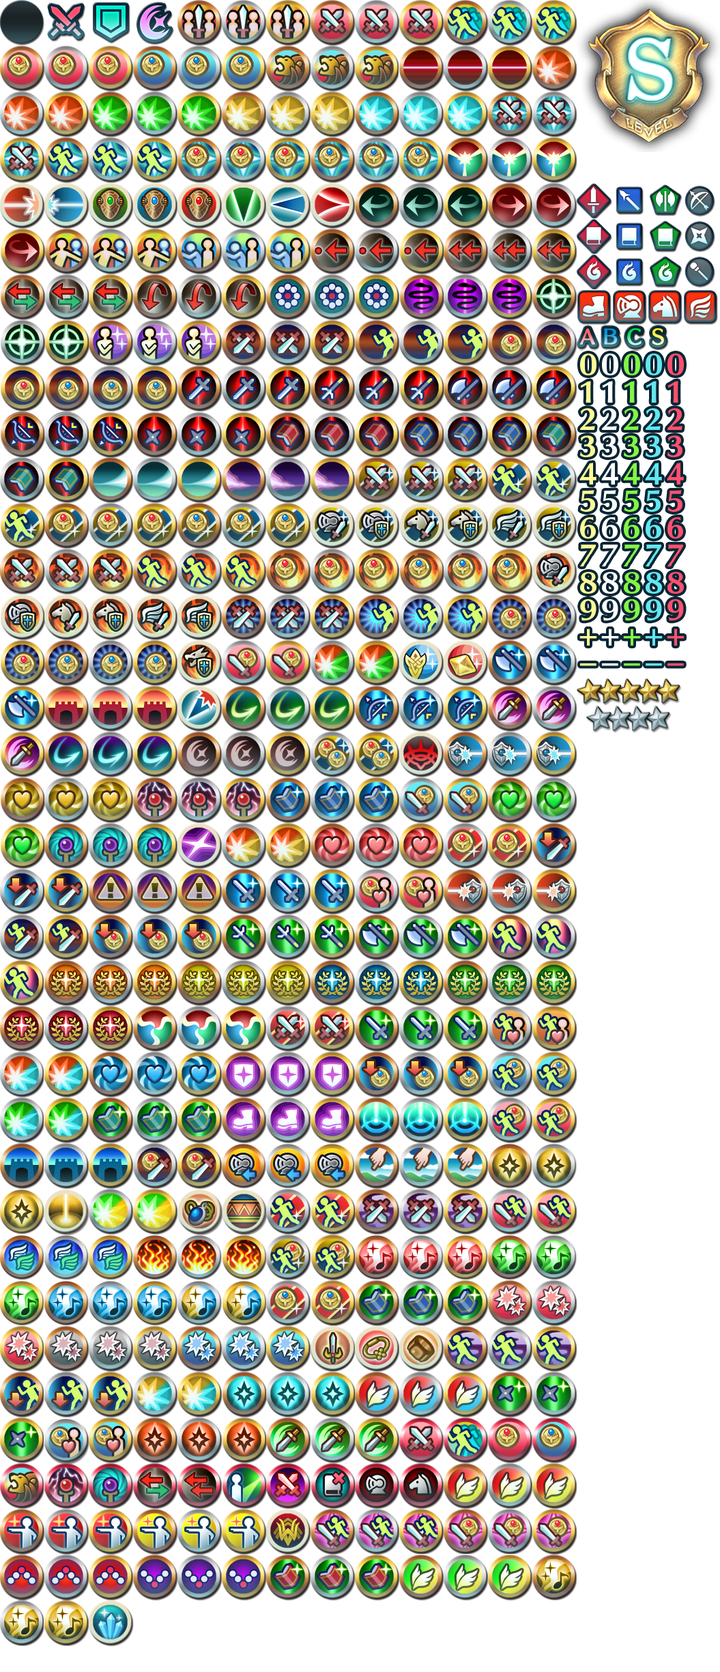
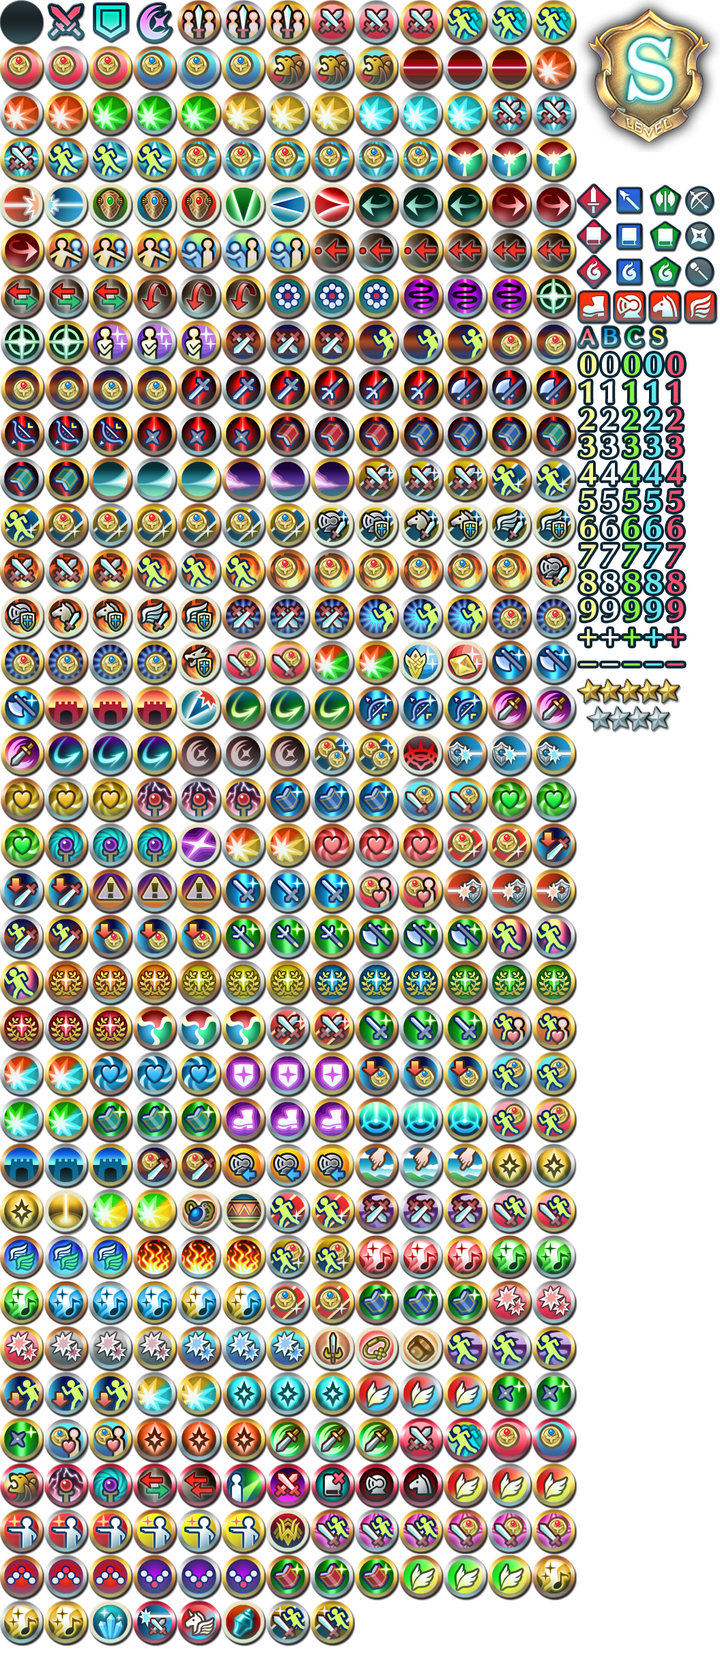
[data] Update new skills

Changed region(s): [[0.182, 0.9306, 0.5156, 0.9927]]

diff --git a/js/data-skills.js b/js/data-skills.js
@@ -1,7 +1,7 @@
 let SKILL_WEAPON = [
   { "name": "Absorb", "spCost": 150, "damage": 4, "range": 2, "weaponType": "Staff", "colorType": "Neutral", "effect": "Recovers HP=50% of damage dealt." },
   { "name": "Absorb+", "spCost": 300, "damage": 7, "range": 2, "weaponType": "Staff", "colorType": "Neutral", "effect": "Recovers HP = 50% of damage dealt. After combat, restores 7 HP to allies within 2 spaces of unit." },
-  { "name": "Alondite", "spCost": 400, "damage": 16, "range": 1, "exclusive": ["Black Knight"], "weaponType": "Sword", "colorType": "Red", "effect": "Enables counterattack regardless of distance if this unit is attacked." },
+  { "name": "Alondite", "spCost": 400, "damage": 16, "range": 1, "exclusive": ["Black Knight", "Zelgius"], "weaponType": "Sword", "colorType": "Red", "effect": "Enables counterattack regardless of distance if this unit is attacked." },
   { "name": "Amiti", "spCost": 400, "damage": 11, "range": 1, "exclusive": ["Elincia"], "weaponType": "Sword", "colorType": "Red", "stats": { "spd": -2 }, "effect": "Spd-2. Attack twice when initiating combat." },
   { "name": "Armads", "spCost": 400, "damage": 16, "range": 1, "exclusive": ["Hector"], "weaponType": "Axe", "colorType": "Green", "effect": "Unit makes a guaranteed follow-up attack when attacked at HP ≥ 80%." },
   { "name": "Armorslayer", "spCost": 200, "damage": 8, "range": 1, "weaponType": "Sword", "colorType": "Red", "effect": "Effective against armored units." },
@@ -78,6 +78,7 @@ let SKILL_WEAPON = [
   { "name": "Eckesachs", "spCost": 400, "damage": 16, "range": 1, "exclusive": ["Zephiel"], "weaponType": "Sword", "colorType": "Red", "effect": "Inflicts Def-4 on foes within 2 spaces through their next actions at the start of each turn.", },
   { "name": "Elfire", "spCost": 100, "damage": 6, "range": 2, "weaponType": "Tome", "colorType": "Red", "effect": "-" },
   { "name": "Élivágar", "spCost": 400, "damage": 14, "range": 2, "exclusive": ["Veronica"], "weaponType": "Tome", "colorType": "Green", "effect": "If unit initiates attack, bonuses on foes within 2 spaces of the target become penalties through their next actions.", },
+  { "name": "Ellight", "spCost": 100, "damage": 6, "range": 2, "weaponType": "Tome", "colorType": "Blue", "effect": "" },
   { "name": "Elthunder", "spCost": 100, "damage": 6, "range": 2, "weaponType": "Tome", "colorType": "Blue", "effect": "-" },
   { "name": "Elwind", "spCost": 100, "damage": 6, "range": 2, "weaponType": "Tome", "colorType": "Green", "effect": "-" },
   { "name": "Emerald Axe", "spCost": 200, "damage": 8, "range": 1, "weaponType": "Axe", "colorType": "Green", "effect": "Gives Atk+20% if weapon-triangle advantage, Atk-20% if disadvantage." },
@@ -164,6 +165,7 @@ let SKILL_WEAPON = [
   { "name": "Legion's Axe", "spCost": 200, "damage": 10, "range": 1, "weaponType": "Axe", "colorType": "Green", "effect": "After combat, bonuses on targeted foe become penalties through its next action." },
   { "name": "Legion's Axe+", "spCost": 300, "damage": 14, "range": 1, "weaponType": "Axe", "colorType": "Green", "effect": "After combat, bonuses on targeted foe become penalties through its next action." },
   { "name": "Leiptr", "spCost": 400, "damage": 16, "range": 1, "exclusive": ["Fjorm"], "weaponType": "Lance", "colorType": "Blue", "effect": "Unit can counterattack regardless of foe's range.", },
+  { "name": "Light", "spCost": 50, "damage": 4, "range": 2, "weaponType": "Tome", "colorType": "Blue", "effect": "" },
   { "name": "Light Breath", "spCost": 200, "damage": 9, "range": 1, "weaponType": "Breath", "effect": "Grants adjacent allies Def/Res+4 through their next actions after any combat this unit initiates." },
   { "name": "Light Breath+", "spCost": 300, "damage": 13, "range": 1, "weaponType": "Breath", "effect": "Grants adjacent allies Def/Res+4 through their next actions after any combat this unit initiates." },
   { "name": "Lightning Breath", "spCost": 200, "damage": 7, "range": 1, "weaponType": "Breath", "effect": "Enables counterattack regardless of attacker's range. Slows Special trigger (cooldown count+1)." },
@@ -174,7 +176,7 @@ let SKILL_WEAPON = [
   { "name": "Melon Crusher+", "spCost": 300, "damage": 14, "range": 1, "weaponType": "Axe", "colorType": "Green", "effect": "If unit has 100% HP at start of combat, unit gets Atk/Spd/Def/Res+2. If attacking, unit will take 2 damage after combat." },
   { "name": "Monstrous Bow", "spCost": 200, "damage": 8, "range": 2, "weaponType": "Bow", "colorType": "Neutral", "effect": "Effective against flying foes.  After combat, bonuses become penalties on all foes within 2 spaces of target through foes' next actions." },
   { "name": "Monstrous Bow+", "spCost": 300, "damage": 12, "range": 2, "weaponType": "Bow", "colorType": "Neutral", "effect": "Effective against flying foes.  After combat, bonuses become penalties on all foes within 2 spaces of target through foes' next actions." },
-  { "name": "Mulagir", "spCost": 400, "damage": 14, "range": 2, "exclusive": ["Lyn (Brave Heroes)"], "weaponType": "Bow", "colorType": "Neutral", "stats": { "spd": 3 }, "effect": "Effective against flying units.  Grants Spd+3. If foe is magic user, foe's bonuses (from skills like Fortify, Rally, etc.) are nullified during combat.", },
+  { "name": "Mulagir", "spCost": 400, "damage": 14, "range": 2, "exclusive": ["Lyn (Brave Heroes)"], "weaponType": "Bow", "colorType": "Neutral", "stats": { "spd": 3 }, "effect": "Effective against flying units.  Grants Spd+3. If foe is magic user, foe's bonuses (from skills like Fortify, Rally, etc.) are nullified during combat." },
   { "name": "Mystletainn", "spCost": 400, "damage": 16, "range": 1, "exclusive": ["Eldigan"], "weaponType": "Sword", "colorType": "Red", "effect": "Accelerates Special trigger (cooldown count-1).", },
   { "name": "Naga", "spCost": 400, "damage": 14, "range": 2, "exclusive": ["Julia"], "weaponType": "Tome", "colorType": "Green", "effect": "Effective against dragons.  Grants Def/Res+2 when this unit is attacked.", },
   { "name": "Nidhogg", "spCost": 400, "damage": 14, "range": 2, "exclusive": ["Innes"], "weaponType": "Bow", "colorType": "Neutral", "effect": "Effective against flying units.  During combat, unit's Atk/Spd/Def/Res boosted by number of adjacent allies x 2.", },
@@ -184,6 +186,7 @@ let SKILL_WEAPON = [
   { "name": "Panic", "spCost": 150, "damage": 7, "range": 2, "weaponType": "Staff", "colorType": "Neutral", "effect": "After combat, bonuses on targeted foe become penalties through its next action." },
   { "name": "Panic+", "spCost": 300, "damage": 11, "range": 2, "weaponType": "Staff", "colorType": "Neutral", "effect": "After combat, bonuses on target and foes within 2 spaces of target become penalties through their next actions." },
   { "name": "Parthia", "spCost": 400, "damage": 14, "range": 2, "exclusive": ["Jeorge"], "weaponType": "Bow", "colorType": "Neutral", "effect": "Effective against flying units.  Grants Res+4 during combat if initiating attack.", },
+  { "name": "Peshkatz", "spCost": 400, "damage": 14, "range": 2, "exclusive": ["Sothe"], "weaponType": "Dagger", "colorType": "Neutral", "effect": "After combat, if unit attacked, inflicts Atk/Spd/Def/Res-4 on target and foes within 2 spaces of target through their next actions, and grants Atk/Spd/Def/Res+4 to unit and allies within 2 spaces for 1 turn." },
   { "name": "Poison Dagger", "spCost": 200, "damage": 2, "range": 2, "weaponType": "Dagger", "colorType": "Neutral", "effect": "Effective against infantry units.  Infantry foes suffer Def/Res-4 after combat through their next actions." },
   { "name": "Poison Dagger+", "spCost": 300, "damage": 5, "range": 2, "weaponType": "Dagger", "colorType": "Neutral", "effect": "Effective against infantry units.  Infantry foes suffer Def/Res-6 after combat through their next actions." },
   { "name": "Ragnarok", "spCost": 400, "damage": 14, "range": 2, "exclusive": ["Celica"], "weaponType": "Tome", "colorType": "Red", "effect": "If unit has 100% HP at the start of combat, unit receives Atk/Spd +5. If attacking, unit will receive 5 damage after combat.", },
@@ -218,6 +221,8 @@ let SKILL_WEAPON = [
   { "name": "Sealife Tome+", "spCost": 300, "damage": 12, "range": 2, "weaponType": "Tome", "colorType": "Blue", "effect": "Grants allies within 2 spaces Atk/Spd+1 during combat." },
   { "name": "Seashell", "spCost": 200, "damage": 7, "range": 2, "weaponType": "Dagger", "colorType": "Neutral", "effect": "Foe takes Def/Res-5 until end of foe's next action. If unit has 100% HP at start of combat, Atk/Spd/Def/Res+2. If attacking, unit gets 2 damage after." },
   { "name": "Seashell+", "spCost": 300, "damage": 10, "range": 2, "weaponType": "Dagger", "colorType": "Neutral", "effect": "Foe takes Def/Res-7 until end of foe's next action. If unit has 100% HP at start of combat, Atk/Spd/Def/Res+2. If attacking, unit gets 2 damage after." },
+  { "name": "Shine", "spCost": 200, "damage": 9, "range": 2, "weaponType": "Tome", "colorType": "Blue", "effect": "" },
+  { "name": "Shine+", "spCost": 300, "damage": 13, "range": 2, "weaponType": "Tome", "colorType": "Blue", "effect": "" },
   { "name": "Siegfried", "spCost": 400, "damage": 16, "range": 1, "exclusive": ["Xander"], "weaponType": "Sword", "colorType": "Red", "effect": "Enables counterattack regardless of distance if this unit is attacked.", },
   { "name": "Sieglinde", "spCost": 400, "damage": 16, "range": 1, "exclusive": ["Eirika"], "weaponType": "Sword", "colorType": "Red", "effect": "Grants adjacent allies Atk+3 through their next actions at the start of each turn.", },
   { "name": "Siegmund", "spCost": 400, "damage": 16, "range": 1, "exclusive": ["Ephraim"], "weaponType": "Lance", "colorType": "Blue", "effect": "Grants adjacent allies Atk+3 through their next actions at the start of each turn.", },
@@ -259,6 +264,7 @@ let SKILL_WEAPON = [
   { "name": "Stout Tomahawk", "spCost": 400, "damage": 16, "range": 1, "exclusive": ["Dorcas"], "weaponType": "Axe", "colorType": "Green", "effect": "Enables counterattack regardless of distance if this unit is attacked.", },
   { "name": "Tannenboom!", "spCost": 200, "damage": 10, "range": 1, "weaponType": "Lance", "colorType": "Blue", "effect": "Grants Atk/Spd/Def/Res+2 during combat if foe initiates combat." },
   { "name": "Tannenboom!+", "spCost": 300, "damage": 14, "range": 1, "weaponType": "Lance", "colorType": "Blue", "effect": "Grants Atk/Spd/Def/Res+2 during combat if foe initiates combat." },
+  { "name": "Thani", "spCost": 400, "damage": 14, "range": 2, "exclusive": ["Micaiah"], "weaponType": "Tome", "colorType": "Blue", "effect": "Grants Res+3. Effective against armored and cavalry foes. Against armored and cavalry foes using bow, dagger, magic, or staff, damage from first attack received by unit during combat reduced by 30%." },
   { "name": "Thökk", "spCost": 400, "damage": 14, "range": 2, "exclusive": ["Loki"], "weaponType": "Staff", "colorType": "Neutral", "effect": "Damage from staff calculated like other weapons. At start of turn, foes with bow, daggers, magic, or staff in cardinal directions with HP 3 or more lower than unit's can move only 1 space through their next actions.", },
   { "name": "Thoron", "spCost": 200, "damage": 9, "range": 2, "weaponType": "Tome", "colorType": "Blue", "effect": "-" },
   { "name": "Thoron+", "spCost": 300, "damage": 13, "range": 2, "weaponType": "Tome", "colorType": "Blue", "effect": "-" },
@@ -309,6 +315,7 @@ let SKILL_ASSIST = [
   { "name": "Rehabilitate", "range": 1, "spCost": 200, "effect": "Restores 7 HP or more the further below 50% the target's HP is. Slows special trigger (cooldown count+1).", "include": [{ "weaponType": "Staff" }] },
   { "name": "Rehabilitate+", "range": 1, "spCost": 300, "effect": "Restores HP = 50% of Atk -10. (Minimum of 7 HP.) If target's HP is ≤ 50%, the lower the target's HP, the more HP is restored.", "include": [{ "weaponType": "Staff" }] },
   { "name": "Reposition", "range": 1, "spCost": 150, "effect": "Moves adjacent ally to opposite side of unit.", "exclude": [{ "weaponType": "Staff" }] },
+  { "name": "Sacrifice", "range": 1, "spCost": 400, "include": [{"name": "Micaiah"}], "effect": "Converts penalties on target into bonuses. Restores target's HP = unit's current HP -1. Unit's HP reduced by amount restored." },
   { "name": "Shove", "range": 1, "spCost": 150, "effect": "Push adjacent ally 1 space farther away.", "exclude": [{ "weaponType": "Staff" }] },
   { "name": "Sing", "range": 1, "spCost": 150, "effect": "Enables target to take another action. Cannot be used on units with Sing or Dance.", "include": [{ "name": "Azura" },{ "name": "Azura (Performing Arts)" },{ "name": "Shigure (Performing Arts)" }, { "name": "Azura (Happy New Year!)" } ] },
   { "name": "Smite", "range": 1, "spCost": 150, "effect": "Push adjacent ally 2 spaces farther away.", "exclude": [{ "weaponType": "Staff" }] },
@@ -319,7 +326,7 @@ let SKILL_SPECIAL = [
   { "name": "Aegis", "cooldown": 3, "spCost": 200, "exclude": [{"weaponType": "Bow"}, {"weaponType": "Dagger"}, {"weaponType": "Staff"}, {"weaponType": "Tome"}], "effect": "Reduces damage inflicted by attacks from foes 2 spaces away by 50%." },
   { "name": "Aether", "cooldown": 5, "spCost": 500, "exclude": [{ "weaponType": "Staff" }], "effect": "Resolve combat as if foe suffered Def/Res-50%. Unit recovers HP=half damage dealt." },
   { "name": "Astra", "cooldown": 4, "spCost": 200, "exclude": [{ "weaponType": "Staff" }], "effect": "Grants +150% to damage dealt." },
-  { "name": "Black Luna", "cooldown": 3, "spCost": 500, "include": [{ "name": "Black Knight" }], "effect": "Resolve combat as if foe suffered Def/Res-80%. (Skill cannot be inherited.)" },
+  { "name": "Black Luna", "cooldown": 3, "spCost": 500, "include": [{ "name": "Black Knight" },{ "name": "Zelgius" }], "effect": "Resolve combat as if foe suffered Def/Res-80%. (Skill cannot be inherited.)" },
   { "name": "Blazing Flame", "cooldown": 4, "spCost": 300, "exclude": [{ "weaponType": "Staff" }], "effect": "Before combat this unit initiates, foes in an area near target take damage equal to 1.5 x (unit's Atk minus foe's Def or Res)." },
   { "name": "Blazing Light", "cooldown": 4, "spCost": 300, "exclude": [{ "weaponType": "Staff" }], "effect": "Before combat this unit initiates, foes in an area near target take damage equal to 1.5 x (unit's Atk minus foe's Def or Res)." },
   { "name": "Blazing Thunder", "cooldown": 4, "spCost": 300, "exclude": [{ "weaponType": "Staff" }], "effect": "Before combat this unit initiates, foes in an area near target take damage equal to 1.5 x (unit's Atk minus foe's Def or Res)." },
@@ -624,6 +631,7 @@ let SKILL_B = [
   { "name": "Vengeful Fighter 1", "spCost": 60, "icon": "34-3", "include": [{"moveType": "Armored"}], "effect": "If unit's HP ≥ 90% and foe initiates combat, unit makes a guaranteed follow-up attack. Grants Special cooldown charge +1 per attack. (Does not stack.)" },
   { "name": "Vengeful Fighter 2", "spCost": 120, "icon": "34-4", "include": [{"moveType": "Armored"}], "effect": "If unit's HP ≥ 70% and foe initiates combat, unit makes a guaranteed follow-up attack. Grants Special cooldown charge +1 per attack. (Does not stack.)" },
   { "name": "Vengeful Fighter 3", "spCost": 240, "icon": "34-5", "include": [{"moveType": "Armored"}], "effect": "If unit's HP ≥ 50% and foe initiates combat, unit makes a guaranteed follow-up attack. Grants Special cooldown charge +1 per attack. (Does not stack.)" },
+  { "name": "Warp Powder", "spCost": 300, "icon": "35-5", "include": [{"name":"Zelgius"}], "effect": "If unit's HP ≥ 80%, unit can move adjacent to any ally within 2 spaces. (Skill cannot be inherited.)" },
   { "name": "Wary Fighter 1", "spCost": 60, "icon": "6-6", "include": [{"moveType": "Armored"}], "effect": "Prevents follow-up attacks in combat from unit and foes if unit's HP ≥ 90%." },
   { "name": "Wary Fighter 2", "spCost": 120, "icon": "6-7", "include": [{"moveType": "Armored"}], "effect": "Prevents follow-up attacks in combat from unit and foes if unit's HP ≥ 70%." },
   { "name": "Wary Fighter 3", "spCost": 240, "icon": "6-8", "include": [{"moveType": "Armored"}], "effect": "Prevents follow-up attacks in combat from unit and foes if unit's HP ≥ 50%." },
@@ -747,6 +755,8 @@ let SKILL_C = [
   { "name": "Spur Atk 1", "spCost": 50, "icon": "10-8", "effect": "Grants adjacent allies Atk+2 during combat." },
   { "name": "Spur Atk 2", "spCost": 100, "icon": "10-9", "effect": "Grants adjacent allies Atk+3 during combat." },
   { "name": "Spur Atk 3", "spCost": 200, "icon": "10-19", "effect": "Grants adjacent allies Atk+4 during combat." },
+  { "name": "Spur Atk/Spd 2", "spCost": 120, "icon": "35-6", "effect": "Grants adjacent allies Atk/Spd +2 during combat." },
+  { "name": "Spur Atk/Spd 3", "spCost": 240, "icon": "35-7", "effect": "Grants adjacent allies Atk/Spd +3 during combat." },
   { "name": "Spur Def 1", "spCost": 50, "icon": "11-1", "effect": "Grants adjacent allies Def+2 during combat." },
   { "name": "Spur Def 2", "spCost": 100, "icon": "11-2", "effect": "Grants adjacent allies Def+3 during combat." },
   { "name": "Spur Def 3", "spCost": 200, "icon": "11-3", "effect": "Grants adjacent allies Def+4 during combat." },
@@ -930,6 +940,12 @@ let SKILL_REFINED_WEAPONS = {
     {"name": "+Res", "icon": "31-12", "effect": "-", "stats": {"hp": 2, "atk": 1, "res": 3}}
   ],
   "Thoron+": [
+    {"name": "+Atk", "icon": "31-9", "effect": "-", "stats": {"hp": 2, "atk": 2}},
+    {"name": "+Spd", "icon": "31-10", "effect": "-", "stats": {"hp": 2, "atk": 1, "spd": 2}},
+    {"name": "+Def", "icon": "31-11", "effect": "-", "stats": {"hp": 2, "atk": 1, "def": 3}},
+    {"name": "+Res", "icon": "31-12", "effect": "-", "stats": {"hp": 2, "atk": 1, "res": 3}}
+  ],
+  "Shine+": [
     {"name": "+Atk", "icon": "31-9", "effect": "-", "stats": {"hp": 2, "atk": 2}},
     {"name": "+Spd", "icon": "31-10", "effect": "-", "stats": {"hp": 2, "atk": 1, "spd": 2}},
     {"name": "+Def", "icon": "31-11", "effect": "-", "stats": {"hp": 2, "atk": 1, "def": 3}},
@@ -1344,6 +1360,20 @@ let SKILL_REFINED_WEAPONS = {
     {"name": "+Spd", "icon": "31-10", "cost": 1, "effect": "After combat, deals 10 damage to target and foes within 2 spaces of target. Also inflicts Def/Res-7 through their next actions.", "stats": {"hp": 2, "atk": 3, "spd": 2}},
     {"name": "+Def", "icon": "31-11", "cost": 1, "effect": "After combat, deals 10 damage to target and foes within 2 spaces of target. Also inflicts Def/Res-7 through their next actions.", "stats": {"hp": 2, "atk": 3, "def": 3}},
     {"name": "+Res", "icon": "31-12", "cost": 1, "effect": "After combat, deals 10 damage to target and foes within 2 spaces of target. Also inflicts Def/Res-7 through their next actions.", "stats": {"hp": 2, "atk": 3, "res": 3}}
+  ],
+  "Parthia": [
+    {"name": "+Atk vs Ranged", "icon": "35-3", "cost": 1, "effect": "Effective against flying foes. If foe uses magic, damage from first attack received by unit during combat reduced by 30%. Grants Atk+6 during combat if foe uses bow, dagger, magic, or staff."},
+    {"name": "+Atk", "icon": "31-9", "cost": 1, "effect": "Effective against flying foes. If foe uses magic, damage from first attack received by unit during combat reduced by 30%.", "stats": {"hp": 2, "atk": 1}},
+    {"name": "+Spd", "icon": "31-10", "cost": 1, "effect": "Effective against flying foes. If foe uses magic, damage from first attack received by unit during combat reduced by 30%.", "stats": {"hp": 2, "spd": 2}},
+    {"name": "+Def", "icon": "31-11", "cost": 1, "effect": "Effective against flying foes. If foe uses magic, damage from first attack received by unit during combat reduced by 30%.", "stats": {"hp": 2, "def": 3}},
+    {"name": "+Res", "icon": "31-12", "cost": 1, "effect": "Effective against flying foes. If foe uses magic, damage from first attack received by unit during combat reduced by 30%.", "stats": {"hp": 2, "res": 3}}
+  ],
+  "Cymbeline": [
+    {"name": "Atk/Res Bond", "icon": "35-4", "cost": 1, "effect": "Grants allies within 2 spaces Atk+3 during combat. Grants Atk/Res+5 during combat if within 2 spaces of a flying ally."},
+    {"name": "+Atk", "icon": "31-9", "cost": 1, "effect": "", "stats": {"hp": 2, "atk": 1}},
+    {"name": "+Spd", "icon": "31-10", "cost": 1, "effect": "", "stats": {"hp": 2, "spd": 2}},
+    {"name": "+Def", "icon": "31-11", "cost": 1, "effect": "", "stats": {"hp": 2, "def": 3}},
+    {"name": "+Res", "icon": "31-12", "cost": 1, "effect": "", "stats": {"hp": 2, "res": 3}}
   ]
 };
 

diff --git a/js/data-heroes.js b/js/data-heroes.js
@@ -4155,15 +4155,31 @@ const HEROES = [
     "title": "Priestess of Dawn",
     "weaponType": "Tome",
     "moveType": "Infantry",
-    "releaseDate": "Jan 15, 2018",
+    "releaseDate": "Jan 12, 2018",
     "assets": {
       "portrait": "img/heroes-portrait/75px-Icon_Portrait_Micaiah.png",
       "main": "img/heroes-main/Micaiah.png"
     },
-    "skills": [],
+    "skills": [
+      { "name": "Light", "rarity": 5 },
+      { "name": "Ellight", "rarity": 5 },
+      { "name": "Shine", "rarity": 5 },
+      { "name": "Thani", "rarity": 5 },
+      { "name": "Ardent Sacrifice", "rarity": 5 },
+      { "name": "Sacrifice", "rarity": 5 },
+      { "name": "Distant Def 1", "rarity": 5 },
+      { "name": "Distant Def 2", "rarity": 5 },
+      { "name": "Distant Def 3", "rarity": 5 },
+      { "name": "Guard 1", "rarity": 5 },
+      { "name": "Guard 2", "rarity": 5 },
+      { "name": "Guard 3", "rarity": 5 },
+      { "name": "Spur Atk 1", "rarity": 5 },
+      { "name": "Drive Atk 1", "rarity": 5 },
+      { "name": "Drive Atk 2", "rarity": 5 }
+    ],
     "stats": {
       "level1": { "hp": 16, "atk": 9, "spd": 6, "def": 5, "res": 9 },
-      "level40": { "hp": [ 32, 35, 38 ], "atk": [ 32, 35, 38 ], "spd": [ 25, 28, 31 ], "def": [ 15, 18, 21 ], "res": [ 32, 35, 38 ] },
+      "level40": { "hp": [ 32, 35, 39 ], "atk": [ 32, 35, 38 ], "spd": [ 24, 28, 31 ], "def": [ 14, 18, 21 ], "res": [ 32, 35, 38 ] },
     },
     "rarity5": true,
     "colorType": "Blue",
@@ -4632,12 +4648,25 @@ const HEROES = [
     "title": "Admirer of Beauty",
     "weaponType": "Tome",
     "moveType": "Infantry",
-    "releaseDate": "Jan 15, 2018",
+    "releaseDate": "Jan 14, 2018",
     "assets": {
       "portrait": "img/heroes-portrait/75px-Icon_Portrait_Oliver.png",
       "main": "img/heroes-main/Oliver.png"
     },
-    "skills": [],
+    "skills": [
+      { "name": "Light", "rarity": 3 },
+      { "name": "Ellight", "rarity": 3 },
+      { "name": "Shine", "rarity": 3 },
+      { "name": "Shine+", "rarity": 5 },
+      { "name": "Rising Light", "rarity": 3 },
+      { "name": "Blazing Light", "rarity": 4 },
+      { "name": "Warding Blow 1", "rarity": 3 },
+      { "name": "Mirror Strike 1", "rarity": 3 },
+      { "name": "Mirror Strike 2", "rarity": 4 },
+      { "name": "Atk Ploy 1", "rarity": 3 },
+      { "name": "Atk Ploy 2", "rarity": 4 },
+      { "name": "Atk Ploy 3", "rarity": 5 }
+    ],
     "stats": {
       "level1": { "hp": 18, "atk": 8, "spd": 5, "def": 6, "res": 8 },
       "level40": { "hp": [ 39, 42, 45 ], "atk": [ 29, 32, 35 ], "spd": [ 17, 20, 23 ], "def": [ 20, 23, 26 ], "res": [ 31, 34, 37 ] },
@@ -5997,15 +6026,28 @@ const HEROES = [
     "title": "Zephyr",
     "weaponType": "Dagger",
     "moveType": "Infantry",
-    "releaseDate": "Jan 15, 2018",
+    "releaseDate": "Jan 12, 2018",
     "assets": {
       "portrait": "img/heroes-portrait/75px-Icon_Portrait_Sothe.png",
       "main": "img/heroes-main/Sothe.png"
     },
-    "skills": [],
+    "skills": [
+      { "name": "Iron Dagger", "rarity": 5 },
+      { "name": "Steel Dagger", "rarity": 5 },
+      { "name": "Solver Dagger", "rarity": 5 },
+      { "name": "Peshkatz", "rarity": 5 },
+      { "name": "Night Sky", "rarity": 5 },
+      { "name": "Glimmer", "rarity": 5 },
+      { "name": "Life and Death 1", "rarity": 5 },
+      { "name": "Life and Death 2", "rarity": 5 },
+      { "name": "Life and Death 3", "rarity": 5 },
+      { "name": "Spur Atk 1", "rarity": 5 },
+      { "name": "Spur Atk/Spd 1", "rarity": 5 },
+      { "name": "Spur Atk/Spd 2", "rarity": 5 }
+    ],
     "stats": {
       "level1": { "hp": 17, "atk": 10, "spd": 9, "def": 5, "res": 4 },
-      "level40": { "hp": [ 36, 39, 42 ], "atk": [ 33, 36, 39 ], "spd": [ 30, 33, 36 ], "def": [ 19, 22, 25 ], "res": [ 18, 21, 24 ] },
+      "level40": { "hp": [ 35, 39, 42 ], "atk": [ 33, 36, 39 ], "spd": [ 30, 33, 36 ], "def": [ 19, 22, 25 ], "res": [ 18, 21, 24 ] },
     },
     "rarity5": true,
     "colorType": "Neutral",
@@ -6711,12 +6753,27 @@ const HEROES = [
     "title": "Jet-Black General",
     "weaponType": "Sword",
     "moveType": "Armored",
-    "releaseDate": "Jan 15, 2018",
+    "releaseDate": "Jan 12, 2018",
     "assets": {
       "portrait": "img/heroes-portrait/75px-Icon_Portrait_Zelgius.png",
       "main": "img/heroes-main/Zelgius.png"
     },
-    "skills": [],
+    "skills": [
+      { "name": "Iron Sword", "rarity": 5 },
+      { "name": "Steel Sword", "rarity": 5 },
+      { "name": "Silver Sword", "rarity": 5 },
+      { "name": "Alondite", "rarity": 5 },
+      { "name": "New Moon", "rarity": 5 },
+      { "name": "Luna", "rarity": 5 },
+      { "name": "Black Luna", "rarity": 5 },
+      { "name": "Fierce Stance 1", "rarity": 5 },
+      { "name": "Fierce Stance 2", "rarity": 5 },
+      { "name": "Fierce Stance 3", "rarity": 5 },
+      { "name": "Warp Powder", "rarity": 5 },
+      { "name": "Panic Ploy 1", "rarity": 5 },
+      { "name": "Panic Ploy 2", "rarity": 5 },
+      { "name": "Panic Ploy 3", "rarity": 5 }
+    ],
     "stats": {
       "level1": { "hp": 22, "atk": 10, "spd": 7, "def": 10, "res": 6 },
       "level40": { "hp": [ 43, 46, 49 ], "atk": [ 33, 36, 39 ], "spd": [ 30, 33, 36 ], "def": [ 35, 38, 41 ], "res": [ 18, 21, 24 ] },

diff --git a/index.html b/index.html
@@ -129,7 +129,7 @@
           </div>
           <hr>
           <div class="d-flex justify-content-between">
-            <h5 class="card-title">Summoned 5★ Heroes</h5>
+            <h5 class="card-title">Summoned Heroes</h5>
             <div class="btn-group" id="table-filter">
               <button type="button" class="btn btn-sm btn-outline-secondary dropdown-toggle" data-toggle="dropdown">
                 Rarity Filter

diff --git a/js/data-banners.js b/js/data-banners.js
@@ -3,9 +3,9 @@ const BANNERS = [
     "date": "January 2018",
     "banners": [
       {
-        "name": "Radiant Dawn",
+        "name": "World of Dawn",
         "latestHeroesDate": "",
-        "startDate": "Jan 15, 2018",
+        "startDate": "Jan 12, 2018",
         "focusHeroes": [ "Micaiah", "Sothe", "Zelgius" ],
         "excludeFromRarity4": [],
         "excludeFromRarity5": [],
